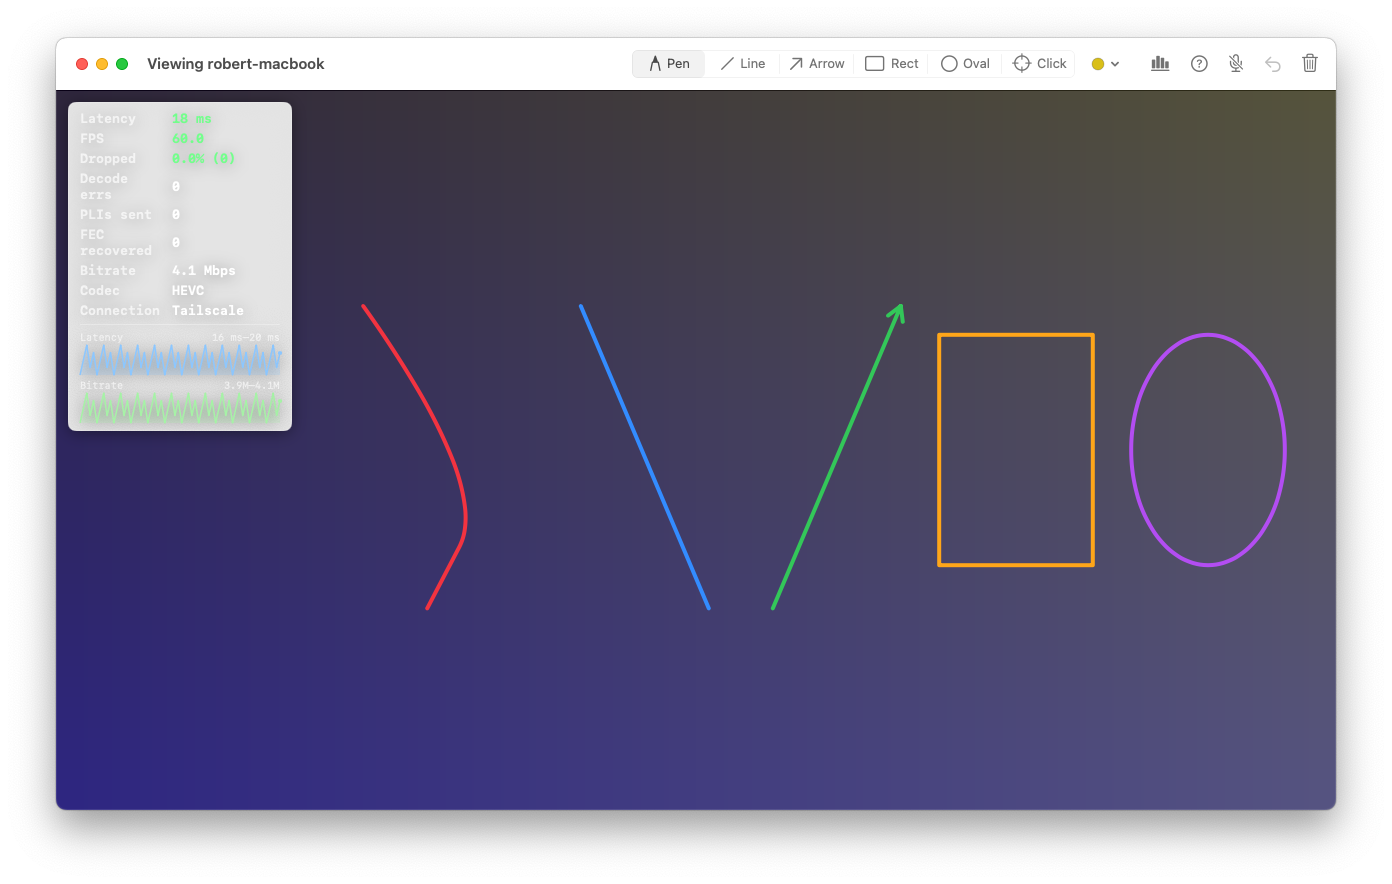
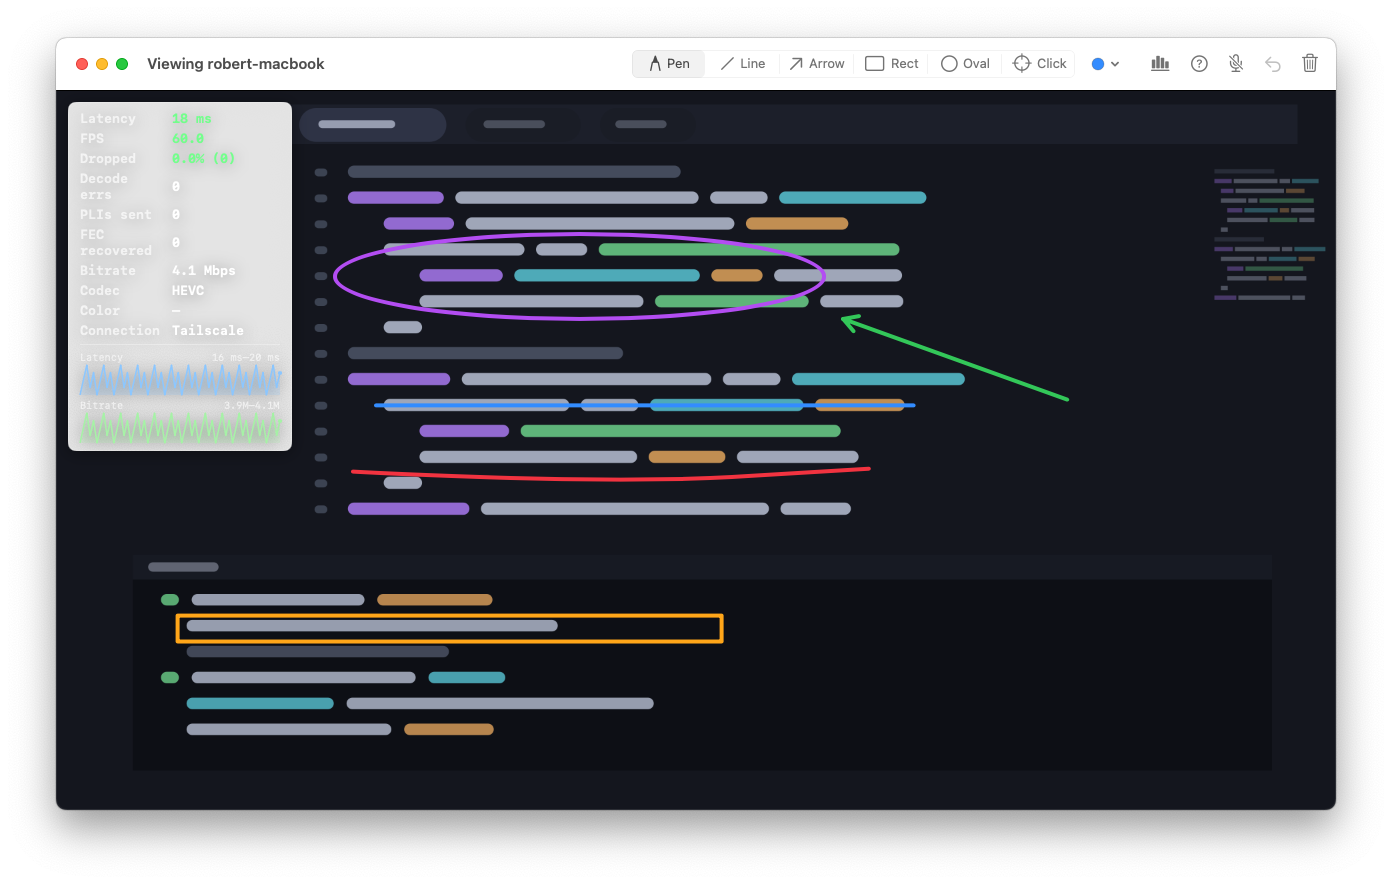
docs: refresh the hero shot with the drawn scene
The viewer's frame is a code editor and terminal now rather than a
gradient, and the marks land on it, so the lead image reads as somebody
reviewing work over a shared screen instead of as an abstract.

Only the viewer shot changes. The three hub captures in this run differ
from the committed ones too, but nothing in this branch touches the hub
UI, so those diffs are capture noise and 300 KB of churn for nothing.

Claude-Session: https://claude.ai/code/session_01F7EJSit2tHB2fzsQU6Fa4i

diff --git a/docs/index.md b/docs/index.md
@@ -27,7 +27,7 @@ image: /assets/social-card.png
 <div class="ts-container">
 <figure class="ts-hero-shot">
   <img src="{{ '/assets/screenshots/macos-viewer.png' | relative_url }}"
-       alt="The Tailscreen viewer window, titled Viewing robert-macbook, showing a remote screen with pen, line, arrow, rectangle and oval strokes drawn over it, the drawing tools along the title bar, and a stats overlay reading 60 fps over HEVC."
+       alt="The Tailscreen viewer window, titled Viewing robert-macbook, showing a remote machine&rsquo;s code editor and terminal with review marks drawn over them &mdash; a circled block, an arrow pointing at it, an underline and a boxed line of output &mdash; the drawing tools along the title bar, and a stats overlay reading 60 fps over HEVC."
        fetchpriority="high" decoding="async">
   <figcaption>The whole UI is a compact window (plus a menubar sharing tool on
   the Mac). The viewer is just a window &mdash; with someone else&rsquo;s
